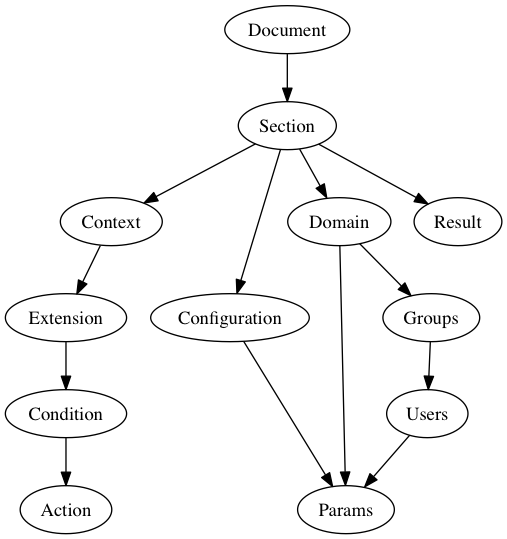
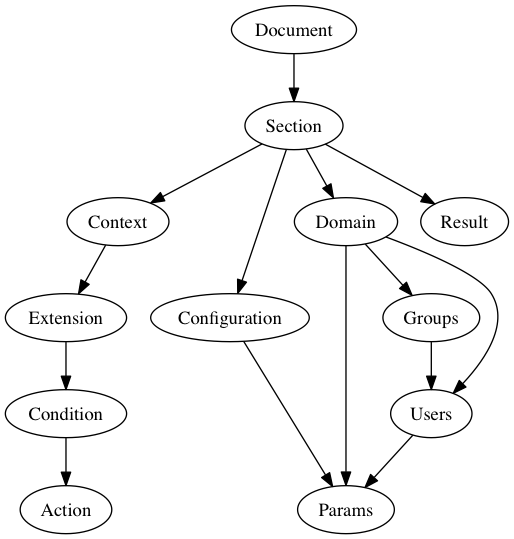
add link && add notfound template

diff --git a/fsapi/struct.go b/fsapi/struct.go
@@ -33,6 +33,7 @@ type Domain struct {
 	Name   string   `xml:"name,attr"`
 	Params []Param  `xml:"params,omitempty>param"`
 	Groups []Groups `xml:"groups,omitempty>group"`
+	User   []User   `xml:"user,omitempty"`
 }
 
 type Param struct {
@@ -48,7 +49,7 @@ type Groups struct {
 type User struct {
 	Id        string  `xml:"id,attr"`
 	Cacheable uint    `xml:"cacheable,attr,omitempty"`
-	Params    []Param `xml:"params>param"`
+	Params    []Param `xml:"params>param,omitempty"`
 }
 
 type Extension struct {

diff --git a/fsapi/const.go b/fsapi/const.go
@@ -1,0 +1,6 @@
+package fsapi
+
+var NotFound = Document{
+	Type:    "freeswitch/xml",
+	Section: []Section{{Name: "result", Result: []Result{{Status: "not found"}}}},
+}
